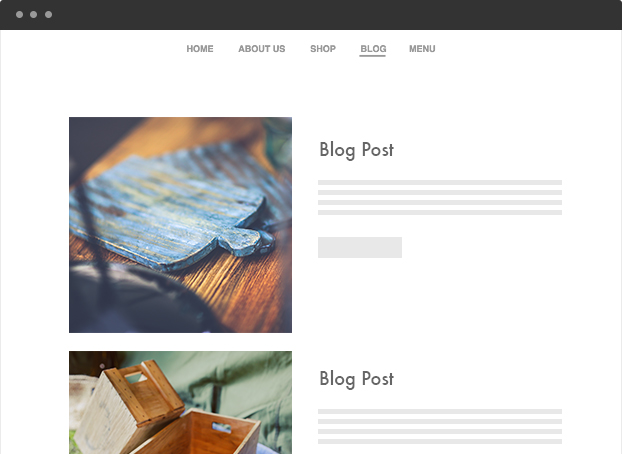
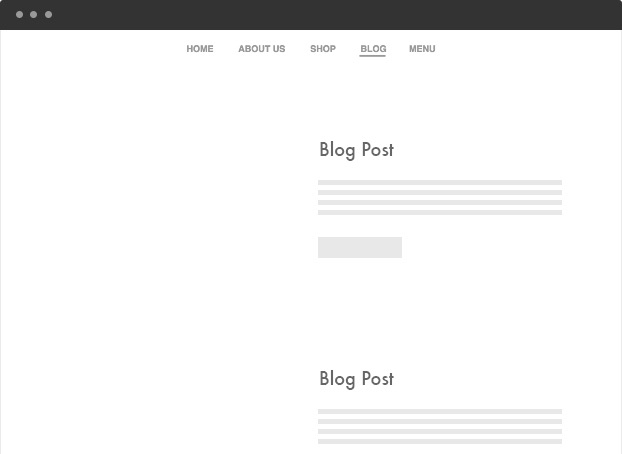
Custom images for Menu and Blog tabs

Changed region(s): [[0.0916, 0.2467, 0.4887, 0.7401], [0.0916, 0.7709, 0.4887, 1.0]]

diff --git a/less/plugin-tabs.less b/less/plugin-tabs.less
@@ -198,7 +198,7 @@ input:checked + label span span.menu:before {
     top: 0;
     right: 0;
     bottom: 0;
-    left: 0;
+    left: 1px;
 
     img {
       max-height: 100%;
@@ -229,6 +229,48 @@ input:checked + label span span.menu:before {
       display: block;
       position: absolute;
       top: 17%;
+    }
+}
+
+// Slide 2
+.content2 {
+    .custom-image .widget:first-child {
+      width: 36%;
+      height: 48%;
+      display: block;
+      position: absolute;
+      top: 24.9%;
+      left: 10.9%;
+    }
+
+    .custom-image .widget:last-child {
+      width: 36%;
+      height: 24.5%;
+      display: block;
+      position: absolute;
+      top: 75.2%;
+      left: 10.9%;
+    }
+}
+
+// Slide 3
+.content3 {
+    .custom-image .widget:first-child {
+      width: 42.7%;
+      height: 38%;
+      display: block;
+      position: absolute;
+      top: 23.9%;
+      left: 5.4%;
+    }
+
+    .custom-image .widget:last-child {
+      width: 42.7%;
+      height: 38%;
+      display: block;
+      position: absolute;
+      top: 23.9%;
+      left: 52%;
     }
 }
 
